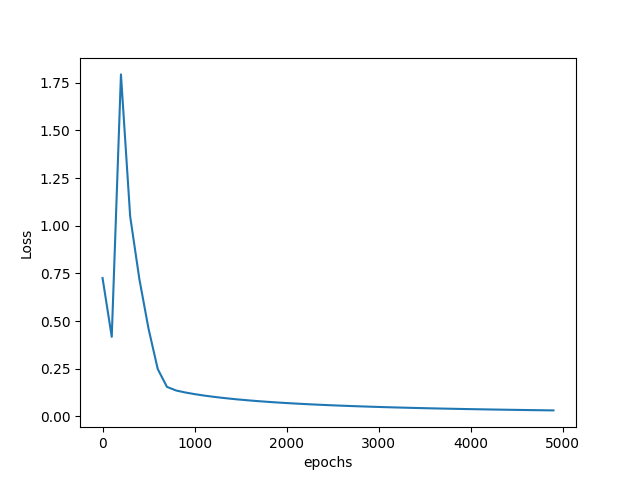
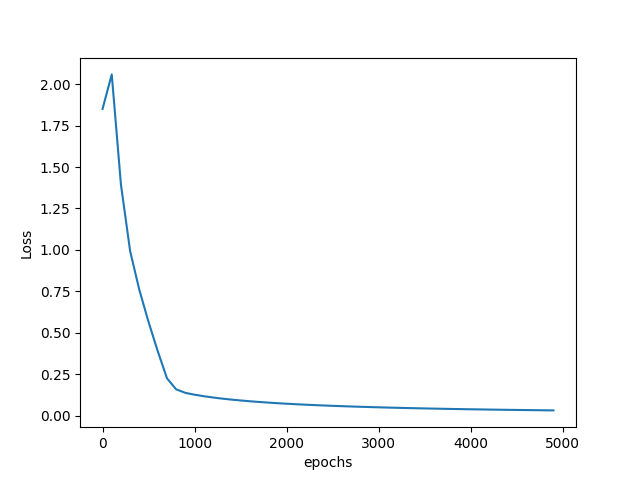
Activation Value

diff --git a/main.py b/main.py
@@ -41,14 +41,16 @@ class NeuralNetwork:
         self.epochs = epochs
         self.Loss_list = []
         self.epochs_list = []
+        self.activation_value = []
 
     def weight_init(self):
-        self.w = np.random.randn(self.input.shape[0], 1) * np.sqrt(1.0 / self.input.shape[0])
+        self.w = np.random.randn(self.input.shape[0], 1) * np.sqrt(2.0 / self.input.shape[1])
+
         return self.w
 
     def bias_init(self):
         self.b = 0.1
-        self.bw = np.random.randn(1, 1) * np.sqrt(2.0 / self.input.shape[0])
+        self.bw = np.zeros((1, 1))
         return self.bw
 
     def feedforward(self, i):
@@ -58,6 +60,7 @@ class NeuralNetwork:
             self.b = self.bias_init()
 
         self.z = np.dot(self.w.T, self.input) + self.b * self.bw
+
         self.output = sigmoid(self.z)
 
         self.cost = (-1) * (1/self.m) * (np.sum((self.y * np.log(self.output)) + ((1 - self.y) * (np.log(1 - self.output)))))
@@ -83,11 +86,12 @@ class NeuralNetwork:
             self.a, self.cost, self.w, self.b = self.propogation(i)
 
             print('epochs:' + str(i) + " "
-                  "Loss:" + str(self.cost) + " "
-                  "accuracy: {} %".format(100 - np.mean(np.abs(self.a - self.y)) * 100))
+                  "| Loss:" + str(self.cost) + " "
+                  "| Accuracy: {} %".format(100 - np.mean(np.abs(self.a - self.y)) * 100))
 
             if i % 100 == 0:
 
+                self.activation_value.append(self.a.mean())
                 self.Loss_list.append(self.cost)
                 self.epochs_list.append(i)
 
@@ -103,6 +107,19 @@ class NeuralNetwork:
         fig1 = plt.gcf()
         plt.show()
         fig1.savefig('epochs_vs_Loss.png')
+
+        # Plotting activation
+        activation_value = np.array(self.activation_value)
+        activation_value = activation_value.reshape(-1, 1)
+        x_epochs = np.array(self.epochs_list).reshape(-1, 1)
+
+        plt.plot(x_epochs, activation_value)
+        plt.xlabel('x_epochs')
+        plt.ylabel('activation_value')
+
+        fig2 = plt.gcf()
+        plt.show()
+        fig2.savefig('epochs_vs_activation_value.png')
 
         print("Training accuracy: {} %".format(100 - np.mean(np.abs(self.a - self.y)) * 100))
 
